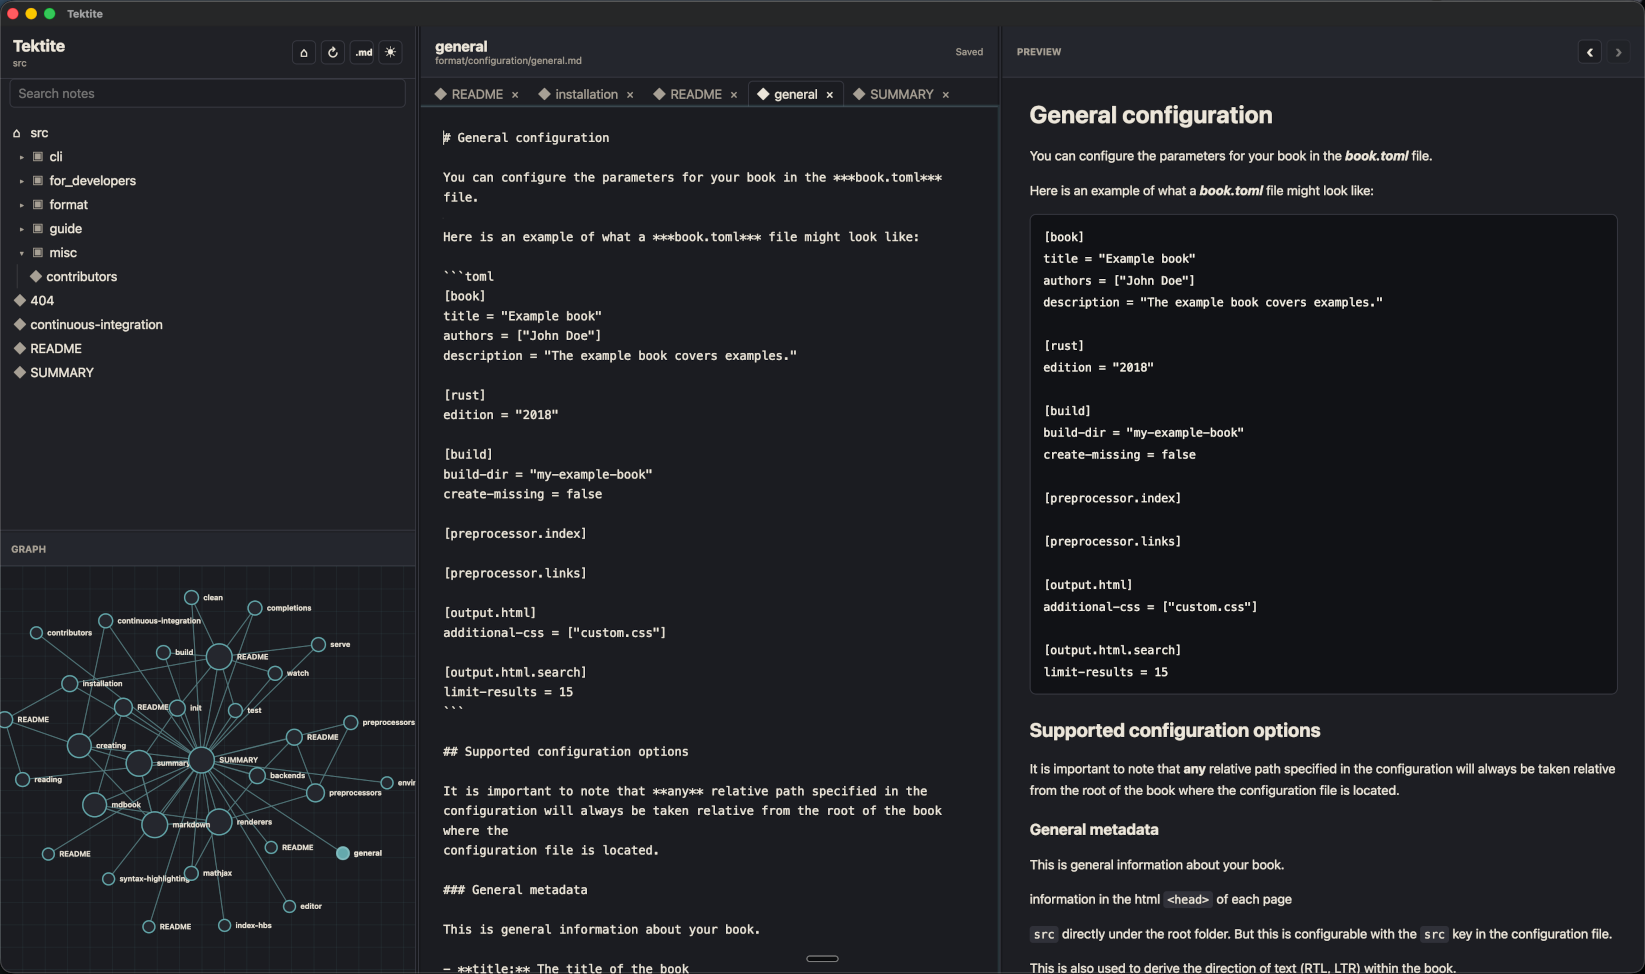
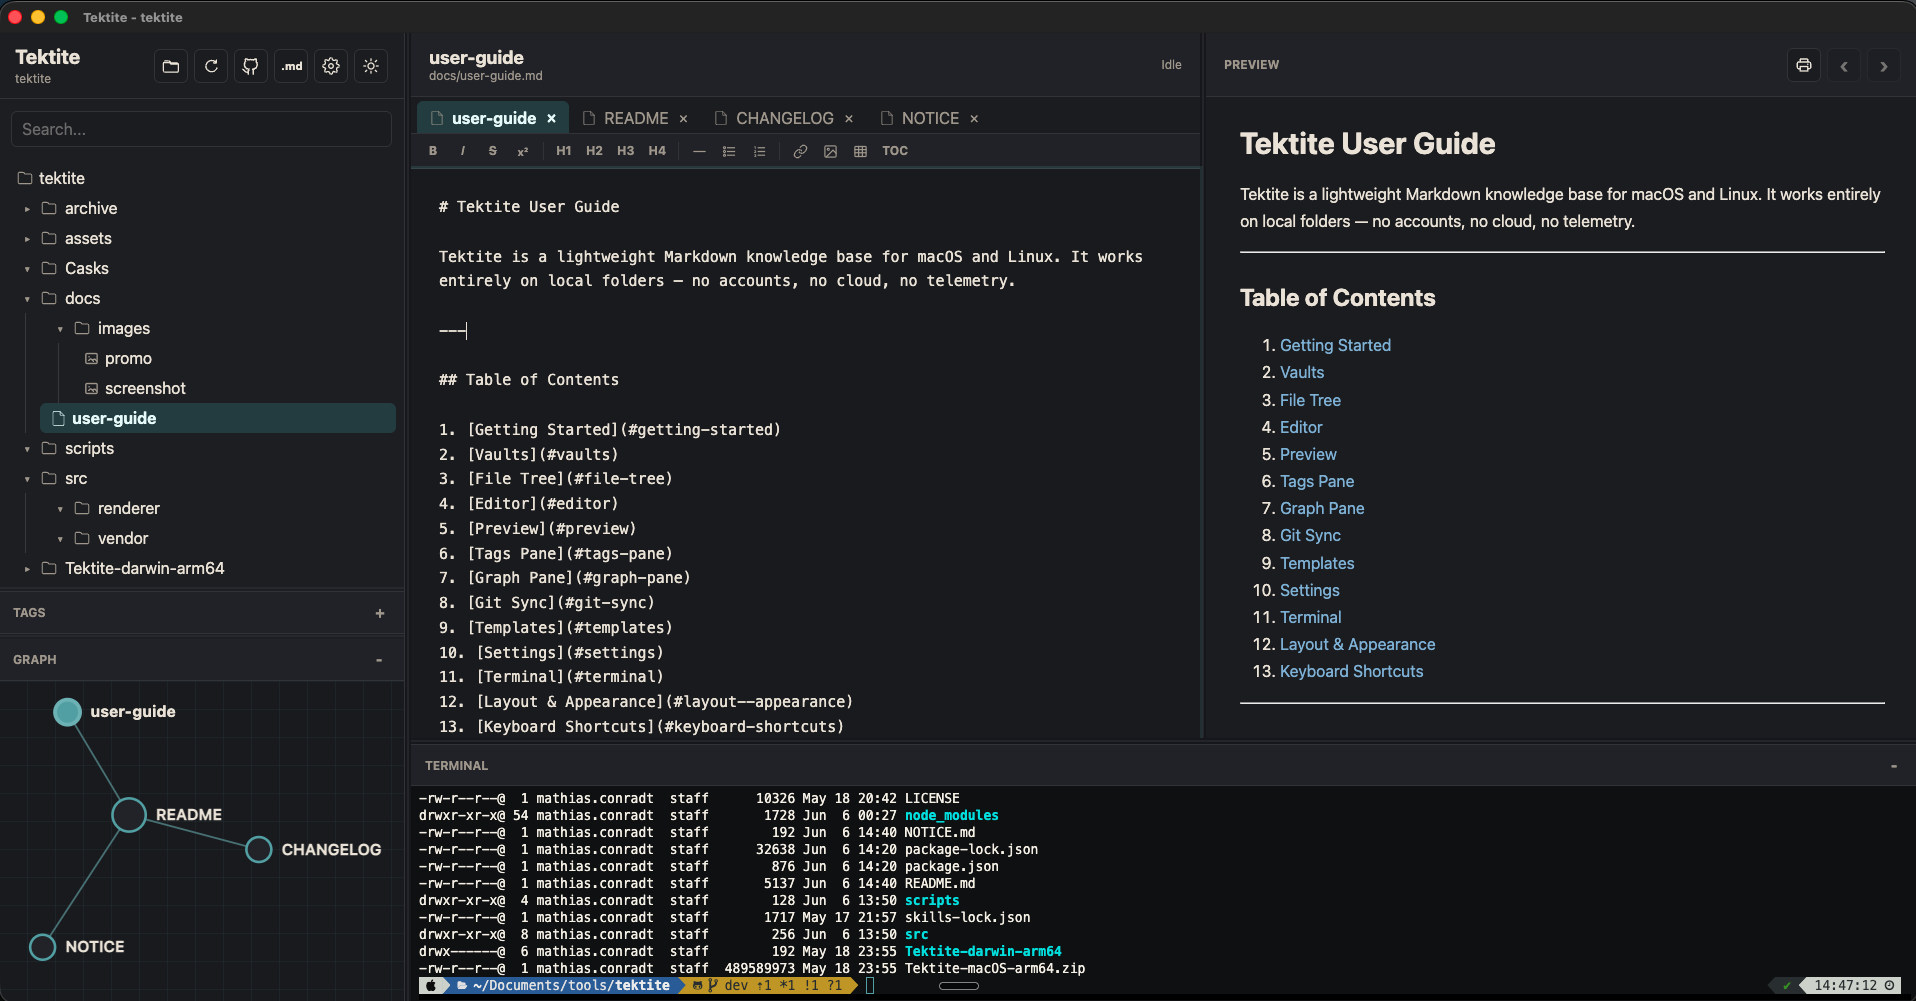
fix: terminal cwd, collapse, remote images in preview
Terminal spawns in vault folder when open. Collapse clears inline
height so CSS height:auto takes effect. Remote image URLs pass through
with HTML entities unescaped for correct query string rendering.

diff --git a/src/renderer/renderer.js b/src/renderer/renderer.js
@@ -665,6 +665,7 @@ function applyTerminalContentCollapsed() {
   const pane = els.terminalPane;
   if (!pane) return;
   pane.classList.toggle("content-collapsed", state.terminalContentCollapsed);
+  if (state.terminalContentCollapsed) pane.style.height = "";
   els.collapseTerminalButton.textContent = state.terminalContentCollapsed ? "+" : "-";
   els.collapseTerminalButton.setAttribute("aria-label", state.terminalContentCollapsed ? "Expand Terminal" : "Collapse Terminal");
 }
@@ -862,6 +863,7 @@ async function openVault(rootPath) {
     }
     log("openVault scan complete", { notes: vault.notes.length });
     state.rootPath = vault.rootPath;
+    if (termInstance?.pid) globalThis.tektite.terminalWrite(termInstance.pid, `cd ${JSON.stringify(vault.rootPath)}\n`);
     state.tree = vault.tree;
     state.notes = vault.notes;
     state.previewRevision = Date.now();

diff --git a/CHANGELOG.md b/CHANGELOG.md
@@ -2,6 +2,13 @@
 
 All notable changes to Tektite are documented here.
 
+## [0.1.49] - 2026-06-06
+
+- Fix: terminal starts in vault folder when vault is open, home dir otherwise
+- Fix: terminal collapse now correctly shrinks to header and expands editor/preview
+- Fix: remote images (badges, API-served images, URLs without file extension) now render in preview
+- Fix: remote image URLs with query string parameters (e.g. `&`) render correctly
+
 ## [0.1.48] - 2026-06-06
 
 - CI: fix package-lock.json resolved URLs rewritten from JFrog to npmjs.org on every build
